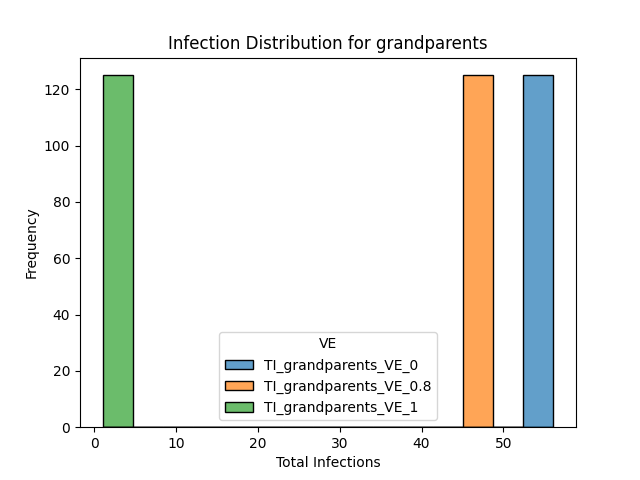
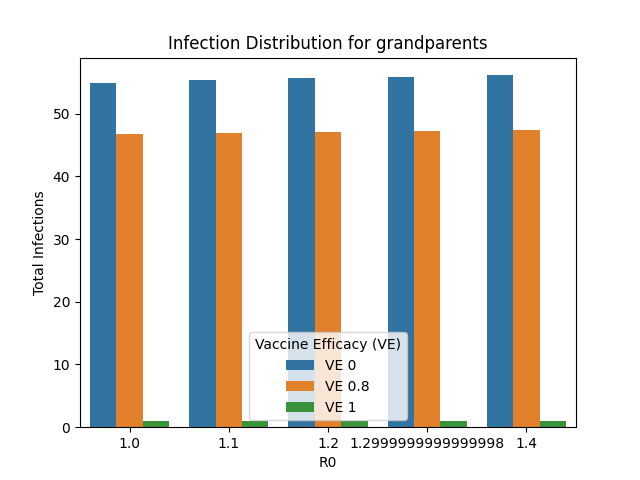
bar charts finally !!!!!!!!!!!!

diff --git a/src/bar_charts.py b/src/bar_charts.py
@@ -1,8 +1,9 @@
-import argparse
 import sys
-import pandas as pd
+import argparse
 import seaborn as sns
+import pandas as pd
 import matplotlib.pyplot as plt
+from vaccine_model import read_csv
 
 def main():
     # Parse command-line arguments
@@ -26,15 +27,50 @@ def main():
     # Read the CSV file
     data = pd.read_csv(args.file_name)
     if args.age_group == 'kids':
-        # Plot histogram for the specified age group
-        sns.scatterplot(x=data['R0_kids'], y=data[['TI_kids_VE_0', 'TI_kids_VE_0.8', 'TI_kids_VE_1']], bins=15, alpha=0.7)
+        # Combine data for different VE values into a single DataFrame
+        ve_data = pd.DataFrame({
+            'R0_kids': data['R0_kids'].tolist() * 3,
+            'Total_Infections': data['TI_kids_VE_0'].tolist() + data['TI_kids_VE_0.8'].tolist() + data['TI_kids_VE_1'].tolist(),
+            'VE': ['VE 0'] * len(data) + ['VE 0.8'] * len(data) + ['VE 1'] * len(data)
+        })
+        # Plot side-by-side bar plot for the specified age group
+        sns.barplot(x='R0_kids', y='Total_Infections', hue='VE', data=ve_data)
         plt.title(f'Infection Distribution for {args.age_group}')
-        plt.xlabel('Total Infections')
-        plt.ylabel('Frequency')
-        #plt.legend(title='VE') Need to have this show for the different R0 values I think
+        plt.xlabel('R0')
+        plt.ylabel('Total Infections')
+        plt.legend(title='Vaccine Efficacy (VE)')
         plt.savefig(args.output_file)
-    else:
-        print('no plots here ...')
+        
+    if args.age_group == 'adults':
+            # Combine data for different VE values into a single DataFrame
+        ve_data = pd.DataFrame({
+            'R0_adults': data['R0_adults'].tolist() * 3,
+            'Total_Infections': data['TI_adults_VE_0'].tolist() + data['TI_adults_VE_0.8'].tolist() + data['TI_adults_VE_1'].tolist(),
+            'VE': ['VE 0'] * len(data) + ['VE 0.8'] * len(data) + ['VE 1'] * len(data)
+        })
+        # Plot side-by-side bar plot for the specified age group
+        sns.barplot(x='R0_adults', y='Total_Infections', hue='VE', data=ve_data)
+        plt.title(f'Infection Distribution for {args.age_group}')
+        plt.xlabel('R0')
+        plt.ylabel('Total Infections')
+        plt.legend(title='Vaccine Efficacy (VE)')
+        plt.savefig(args.output_file)
+    
+    if args.age_group == 'grandparents':
+                    # Combine data for different VE values into a single DataFrame
+        ve_data = pd.DataFrame({
+            'R0_grandparents': data['R0_grandparents'].tolist() * 3,
+            'Total_Infections': data['TI_grandparents_VE_0'].tolist() + data['TI_grandparents_VE_0.8'].tolist() + data['TI_grandparents_VE_1'].tolist(),
+            'VE': ['VE 0'] * len(data) + ['VE 0.8'] * len(data) + ['VE 1'] * len(data)
+        })
+        # Plot side-by-side bar plot for the specified age group
+        sns.barplot(x='R0_grandparents', y='Total_Infections', hue='VE', data=ve_data)
+        plt.title(f'Infection Distribution for {args.age_group}')
+        plt.xlabel('R0')
+        plt.ylabel('Total Infections')
+        plt.legend(title='Vaccine Efficacy (VE)')
+        plt.savefig(args.output_file)
+        
     print(f"Plot saved as '{args.output_file}'")
 
 if __name__ == '__main__':

diff --git a/src/vaccine_model.py b/src/vaccine_model.py
@@ -1,6 +1,15 @@
 import csv
 import numpy as np
 
+
+def read_csv(file_name):
+    data = []
+    with open(file_name, 'r') as file:
+        csv_reader = csv.DictReader(file)
+        for row in csv_reader:
+            data.append(row)
+    return data
+
 # Function to simulate the leaky model
 def leaky_model(R0, N, VE):
     period_of_infection = 14
